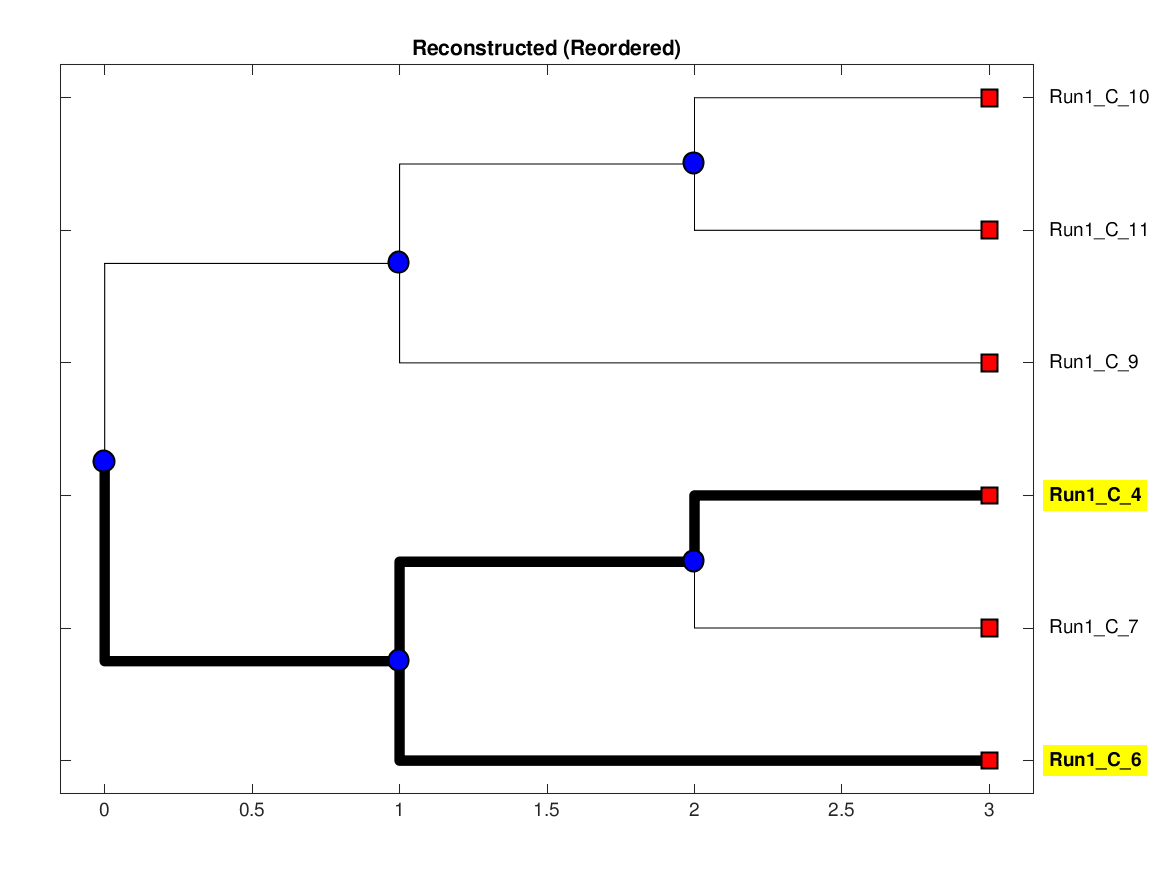
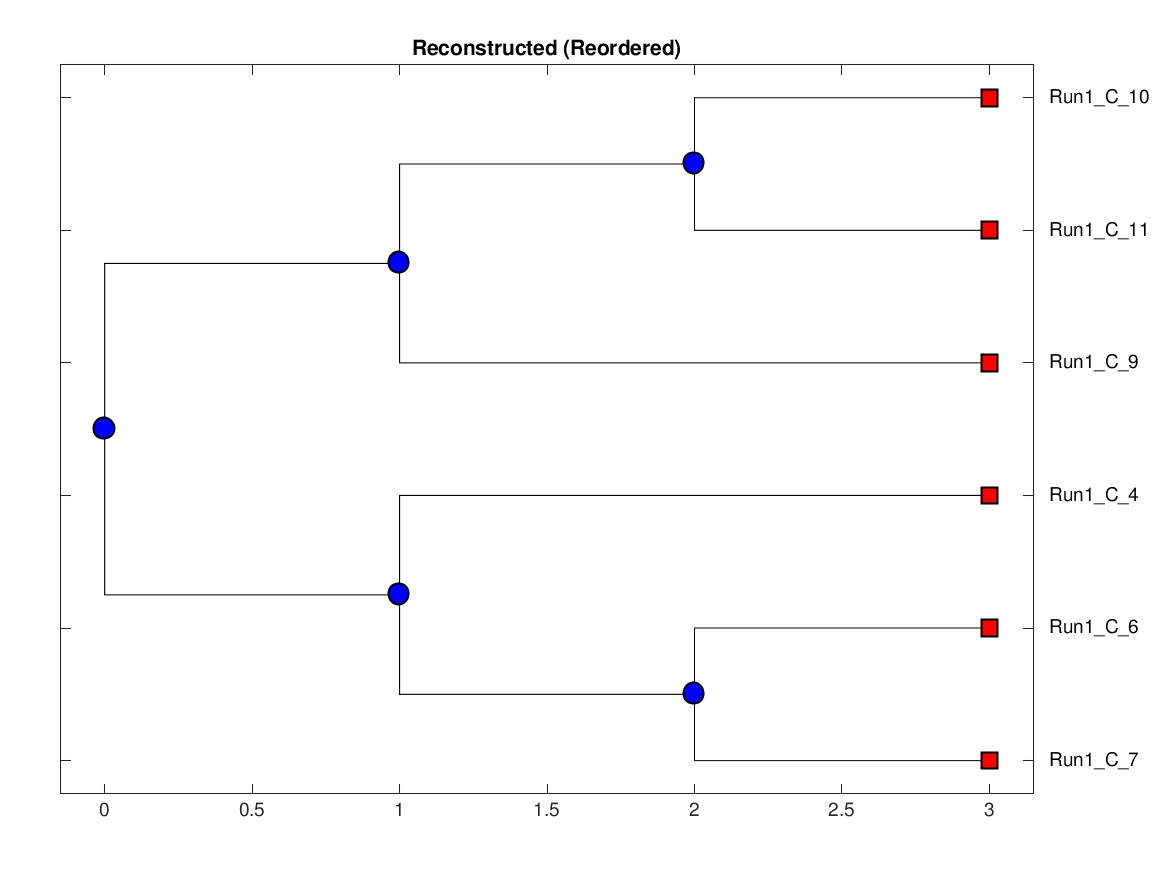
Rerun example-01

diff --git a/examples/example-01/report.html b/examples/example-01/report.html
@@ -515,7 +515,7 @@
     </td>
     
     <td align="middle">
-        2.0
+        0.0
     </td>
     
 </tr>
@@ -527,7 +527,7 @@
     </td>
     
     <td align="middle">
-        0.2211
+        0.0
     </td>
     
 </tr>
@@ -539,7 +539,7 @@
     </td>
     
     <td align="middle">
-        0.2184
+        0.0
     </td>
     
 </tr>
@@ -551,7 +551,7 @@
     </td>
     
     <td align="middle">
-        0.5
+        0.0
     </td>
     
 </tr>
@@ -563,7 +563,7 @@
     </td>
     
     <td align="middle">
-        0.1364
+        0.0
     </td>
     
 </tr>
@@ -575,7 +575,7 @@
     </td>
     
     <td align="middle">
-        0.1363
+        0.0
     </td>
     
 </tr>
@@ -587,7 +587,7 @@
     </td>
     
     <td align="middle">
-        2.8284
+        0.0
     </td>
     
 </tr>
@@ -599,7 +599,7 @@
     </td>
     
     <td align="middle">
-        0.3471
+        0.0
     </td>
     
 </tr>
@@ -611,7 +611,7 @@
     </td>
     
     <td align="middle">
-        0.3416
+        0.0
     </td>
     
 </tr>
@@ -627,7 +627,7 @@
     </td>
     
     <td align="middle">
-        1.0
+        0.0
     </td>
     
 </tr>
@@ -639,7 +639,7 @@
     </td>
     
     <td align="middle">
-        0.0747
+        0.0
     </td>
     
 </tr>
@@ -651,7 +651,7 @@
     </td>
     
     <td align="middle">
-        0.074
+        0.0
     </td>
     
 </tr>
@@ -663,7 +663,7 @@
     </td>
     
     <td align="middle">
-        1.0
+        0.0
     </td>
     
 </tr>
@@ -675,7 +675,7 @@
     </td>
     
     <td align="middle">
-        0.1329
+        0.0
     </td>
     
 </tr>
@@ -687,7 +687,7 @@
     </td>
     
     <td align="middle">
-        0.1327
+        0.0
     </td>
     
 </tr>
@@ -699,7 +699,7 @@
     </td>
     
     <td align="middle">
-        1.0
+        0.0
     </td>
     
 </tr>
@@ -711,7 +711,7 @@
     </td>
     
     <td align="middle">
-        0.3984
+        0.0
     </td>
     
 </tr>
@@ -723,7 +723,7 @@
     </td>
     
     <td align="middle">
-        0.3978
+        0.0
     </td>
     
 </tr>
@@ -735,7 +735,7 @@
     </td>
     
     <td align="middle">
-        1.7321
+        0.0
     </td>
     
 </tr>
@@ -747,7 +747,7 @@
     </td>
     
     <td align="middle">
-        0.2478
+        0.0
     </td>
     
 </tr>
@@ -759,7 +759,7 @@
     </td>
     
     <td align="middle">
-        0.2443
+        0.0
     </td>
     
 </tr>
@@ -769,7 +769,7 @@
 </tbody>
 </table>
 </td>
-        <td class="similarity-score">66.7%</td>
+        <td class="similarity-score">100.0%</td>
     </tr>
     </table>
 
